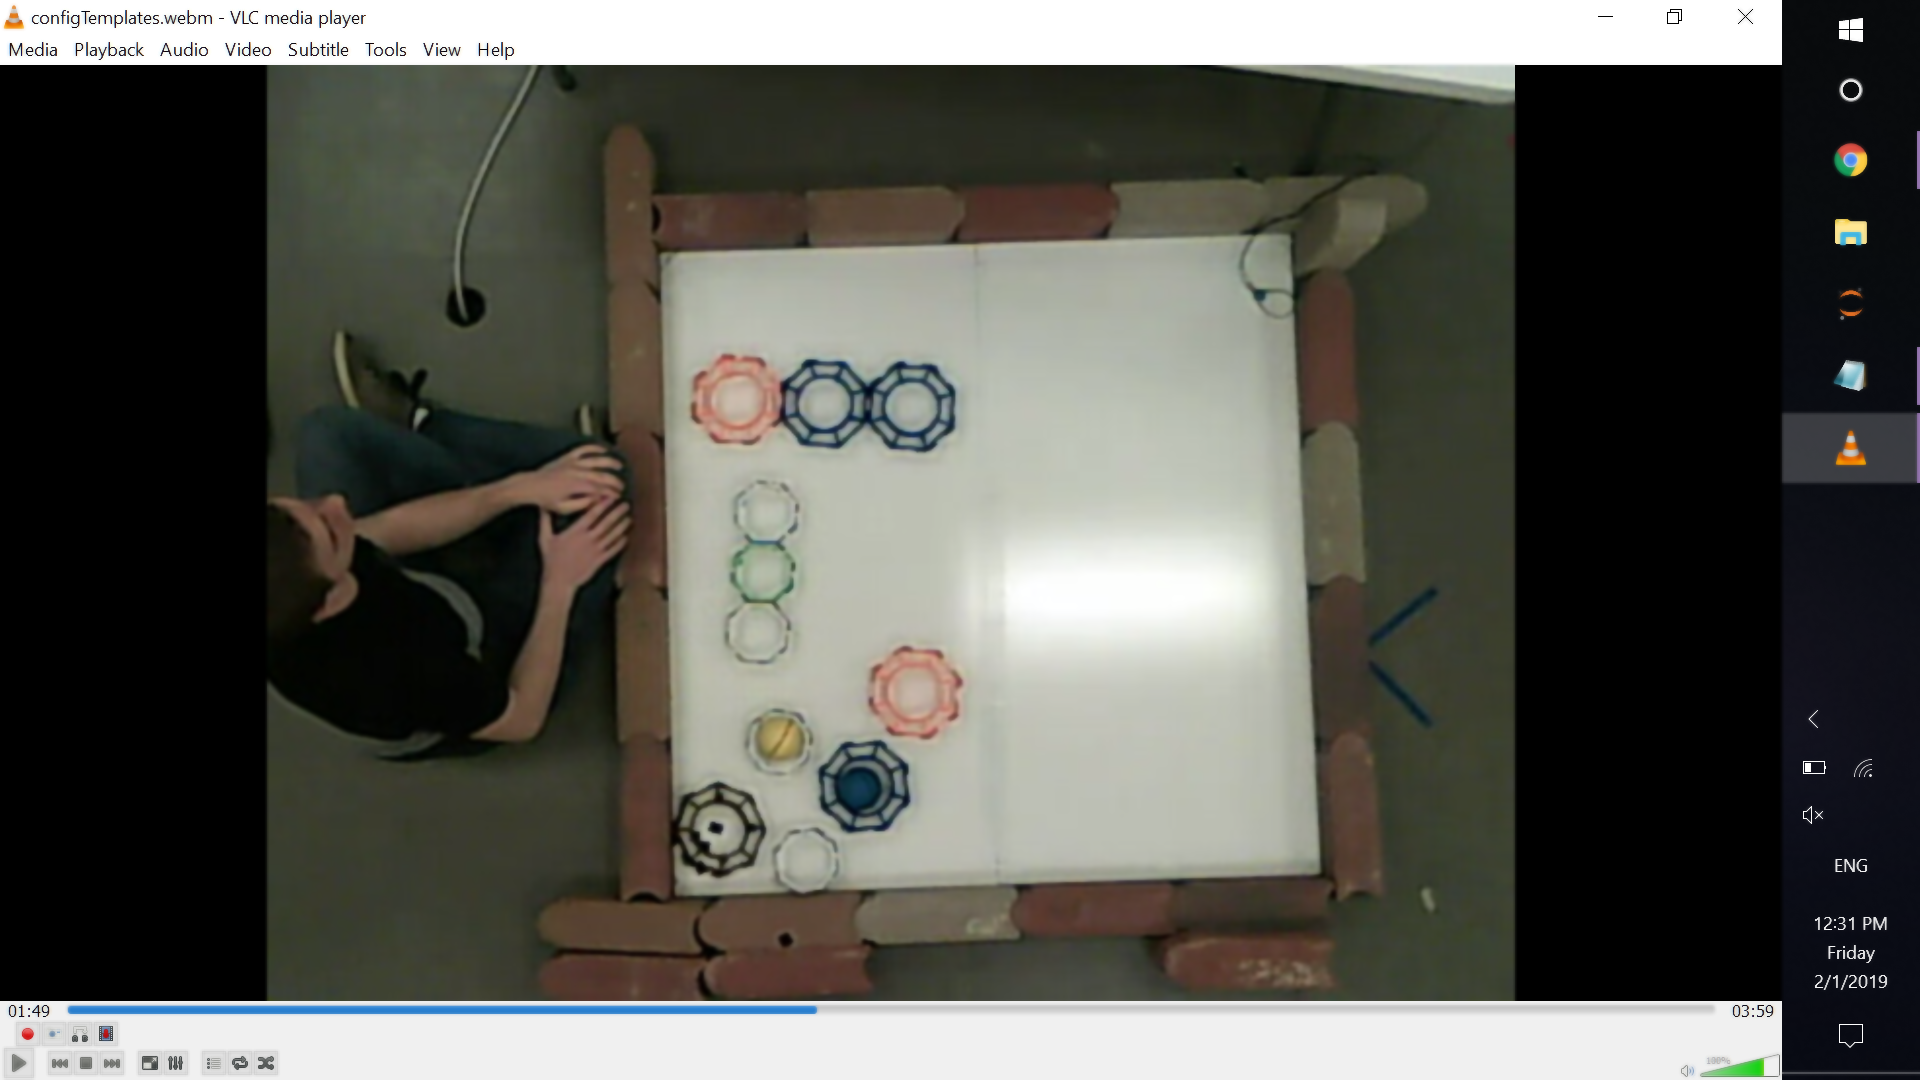
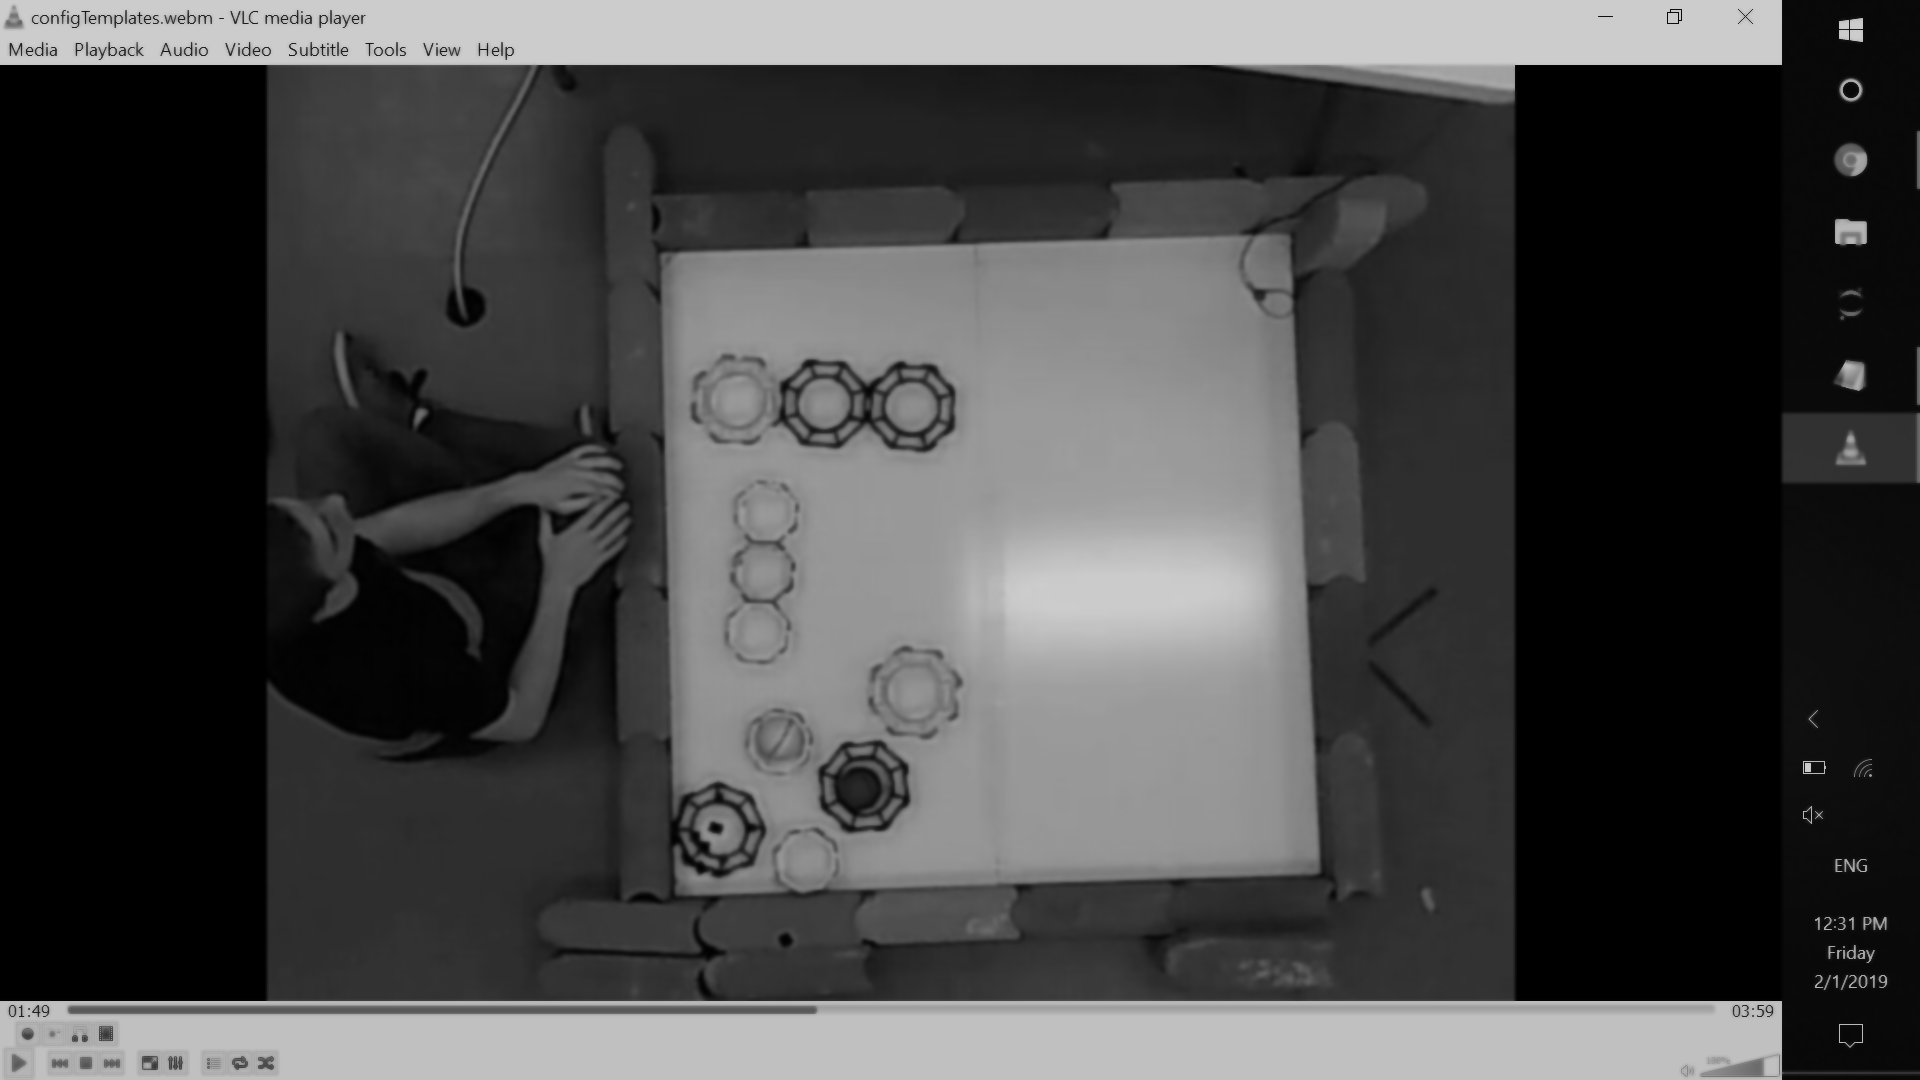
Playing with binary threshold filtering for images

diff --git a/open_cv/src/edgeDetect.py b/open_cv/src/edgeDetect.py
@@ -13,41 +13,62 @@ def main():
             
     
     origname = "../SamplePictures/" + str(sys.argv[1])
-    brightimage = "../SamplePictures/Bright_" + str(sys.argv[1])
-    bimage = "../SamplePictures/Blur_" + str(sys.argv[1])
-    iname = "../SamplePictures/Edges_" + str(sys.argv[1])
-    binaryimage = "../SamplePictures/Binary_" + str(sys.argv[1])
+    brightname = "../SamplePictures/Bright_" + str(sys.argv[1])
+    blurname = "../SamplePictures/Blur_" + str(sys.argv[1])
+    edgename = "../SamplePictures/Edges_" + str(sys.argv[1])
     
-    rawImage = cv.imread(origname)
+    binaryname = "../SamplePictures/Binary_" + str(sys.argv[1])
+    binaryadaptivename = "../SamplePictures/BinaryAdaptive_" + str(sys.argv[1])
+    
+    origImage = cv.imread(origname)
+    grayImage = cv.cvtColor(origImage,cv.COLOR_BGR2GRAY)
+    
 
-    alpha = 1
-    gamma = 0
-    rawImage = cv.addWeighted(rawImage, alpha, rawImage, 0, gamma)
+    alpha = 0.8 # Higher = more contrast
+    gamma = 0 # Higher = brighter (little-to-no impact)
+    blurNeighbors = 7 # Higher = larger neighborhood
+    sigmaColor = 75 # Higher = color influence range (little-to-no impact)
+    sigmaSpace = 75 # Higher = distance influence range
+    binarythresh = 120 # Higher = darker binary scene
 
-    bilateral_filtered_image = cv.bilateralFilter(rawImage, 7, 200, 20)#(d, sc, ss)
+    brightImage = cv.addWeighted(grayImage, alpha, grayImage, 0, gamma)
+    cv.imwrite(brightname, brightImage)
+
+    blurImage = cv.bilateralFilter(brightImage, blurNeighbors, sigmaColor, sigmaSpace)#(d, sc, ss)
+    cv.imwrite(blurname, blurImage)
     # d = diameter of pixel neighborhood, default = 9
     # sc = Sigma color, larger means more distant colors in neighborhood are mixed, default = 75
     # ss = Sigma space, larger means farther pixels with close colors will influence each other, default = 75
-    cv.imwrite(bimage, bilateral_filtered_image)
-    edge_detected_image = cv.Canny(bilateral_filtered_image, 0, 80)#(l,u)
+    
+    edgeImage = cv.Canny(blurImage, 0, 80)#(l,u)
+    # cv.imwrite(edgename, edgeImage)
     # u = upper threshold, pixel accepted as edge
     # l = lower threshold, pixel rejected as edge (between is accepted if next to accepted pixel)
     
-    cv.imwrite(iname,edge_detected_image)
+    retval, binaryImage = cv.threshold(blurImage, binarythresh, 255, cv.THRESH_BINARY)
+    cv.imwrite(binaryname, binaryImage)
+    
 
-    binimage = cv.threshold(origimage)
-ret,thresh1 = cv.threshold(img,127,255,cv.THRESH_BINARY)
-ret,thresh2 = cv.threshold(img,127,255,cv.THRESH_BINARY_INV)
-ret,thresh3 = cv.threshold(img,127,255,cv.THRESH_TRUNC)
-ret,thresh4 = cv.threshold(img,127,255,cv.THRESH_TOZERO)
-ret,thresh5 = cv.threshold(img,127,255,cv.THRESH_TOZERO_INV)
-titles = ['Original Image','BINARY','BINARY_INV','TRUNC','TOZERO','TOZERO_INV']
-images = [img, thresh1, thresh2, thresh3, thresh4, thresh5]
-for i in xrange(6):
-    plt.subplot(2,3,i+1),plt.imshow(images[i],'gray')
-    plt.title(titles[i])
-    plt.xticks([]),plt.yticks([])
-plt.show()
+   
+    alpha = 0.8 # Higher = more contrast
+    gamma = 0 # Higher = brighter (little-to-no impact)
+    blurNeighbors = 7 # Higher = larger neighborhood
+    sigmaColor = 75 # Higher = color influence range (little-to-no impact)
+    sigmaSpace = 75 # Higher = distance influence range
+    binarythresh = 120 # Higher = darker binary scene
+
+    brightgrayImage = cv.addWeighted(grayImage, alpha, grayImage, 0, gamma)
+    blurgrayImage = cv.bilateralFilter(brightgrayImage, 7, 200, 10)
+    edgegrayImage = cv.Canny(blurgrayImage, 0, 80)
+    cv.imwrite(edgename, edgegrayImage)
+
+    pixelneighborhood = 51
+    
+    adaptivebinaryImage = cv.adaptiveThreshold(blurgrayImage,255,cv.ADAPTIVE_THRESH_GAUSSIAN_C,\
+            cv.THRESH_BINARY,pixelneighborhood,4)
+    cv.imwrite(binaryadaptivename, adaptivebinaryImage)
+
+
 
 #     img = cv2.imread('shapes.png')
 #     gray = cv2.cvtColor(img, cv2.COLOR_BGR2GRAY)
@@ -76,8 +97,6 @@ plt.show()
 #         cv2.drawContours(img,[cnt],0,(0,255,255),-1)
 
 # cv2.imshow('img',img)
-# cv2.waitKey(0)
-# cv2.destroyAllWindows()
 
 if __name__ == '__main__':
     main()
